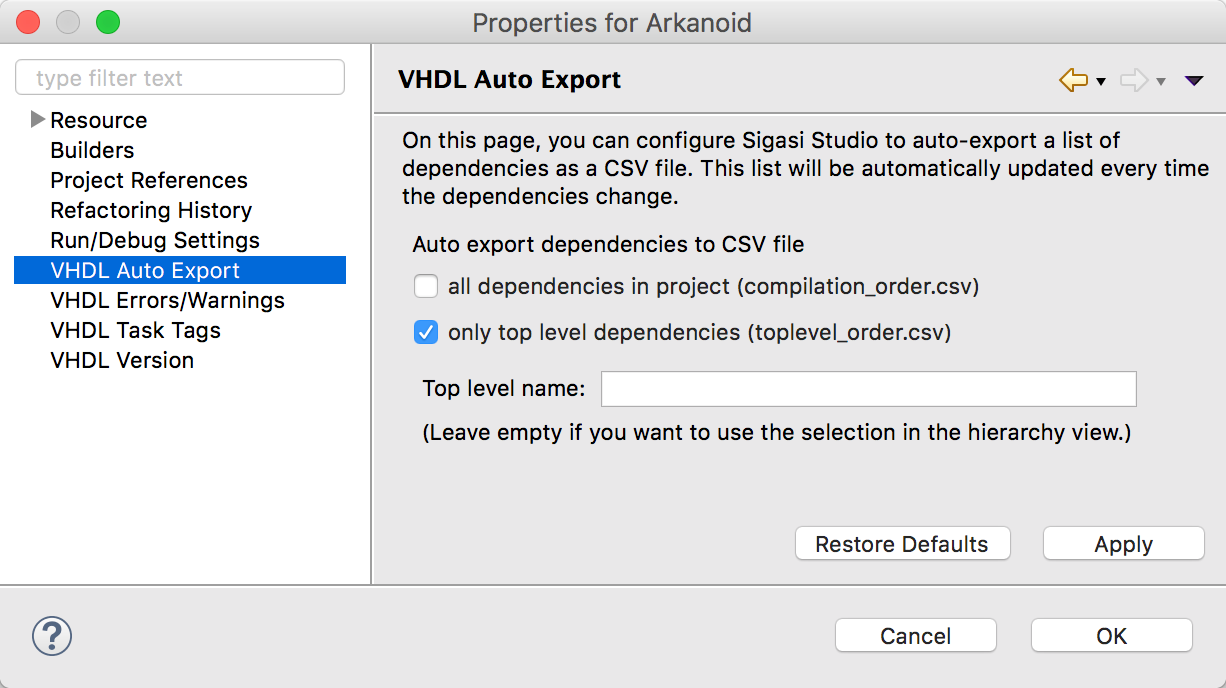
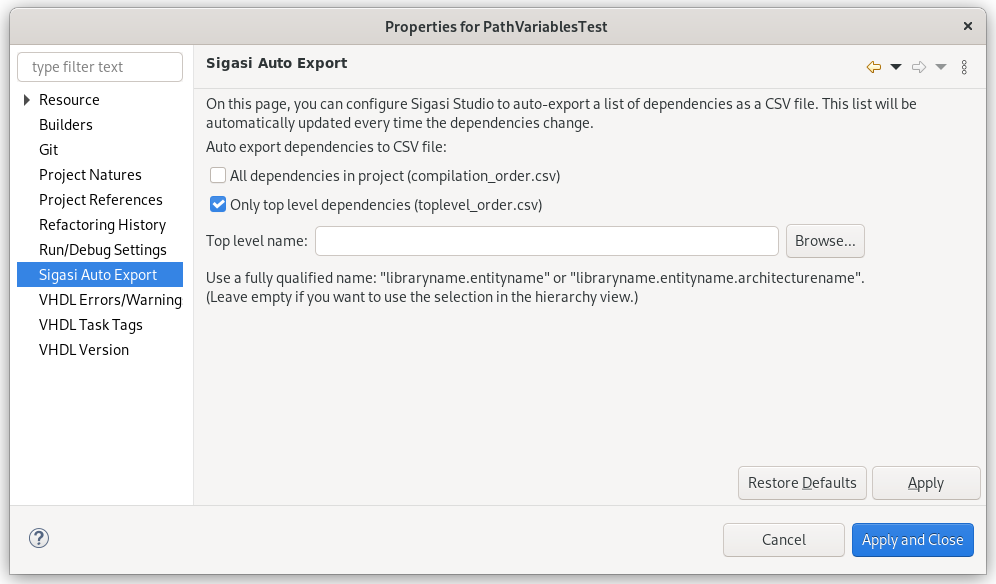
Releasenotes for 4.15.20220201 preview

diff --git a/content/tech/preview.md b/content/tech/preview.md
@@ -2,7 +2,7 @@
 title: Sigasi Studio Preview (4.15)
 layout: page
 pager: true
-date: 2021-12-16
+date: 2022-02-01
 comments: true
 ---
 
@@ -16,7 +16,73 @@ Although these preview releases are less rigorously tested than the official rel
 
 # Current preview release
 
-No documented changes since the {{< page "releasenotes/sigasi-4.14.md" >}} release.
+# Updates
+
+* The minimum VUnit version required by Sigasi is now `4.5.0`
+* Sigasi now uses Chromium 80.0.15 for rendering graphics and the [Documentation View]({{< ref "manual/views.md#documentation-view" >}}). This improves the performance and stability of these views
+* Eclipse has been updated to 2021-12
+* Chromium - which is used for documentation generation and the graphical views - has been updated to version 80
+* MouseFeed - an optional plugin shipped with Sigasi - has been replaced by the Eclipse option `General > Keys > Through mouse click`
+
+# New and Noteworthy Changes
+
+* The [Quick Outline]({{< ref "manual/views.md#quick-outline-view" >}}) initial expansion has been adjusted such that modules, entities, and classes are immediately expanded. This gives a better overview of the design at a first glance
+* Improved the consistency of our ordering, grouping, casing, and punctuation in the preferences and `New...` dialogs
+* The performance of instantiation autocompletes has been _greatly_ improved
+* Autocompleting design unit (`entity`, `component`, or Verilog `module`) instantiations is now supported for design units denoted by an extended identifier (e.g. `\Cool Name$\` in VHDL, or `\$amazing^name ` in Verilog)
+* Added the ability to run performance logging to help us analyze potential user issues
+* The colors used in the `Set top level` dialog have been made consistent with our other views
+* The [Sigasi Auto Export]({{< ref "manual/tools.md#auto-export" >}}) now validates that the given `Top level name` exists, and gives you an option to browse through valid ones  
+{{< figure src="/img/releasenotes/4.15/AutoExportCsv.png" title="Sigasi auto export improvements">}}  
+* Improved responsiveness when enabling or disabling [Talkback]({{< ref "manual/talkback.md" >}})
+* The `Verilog Version` and `Verilog Errors/Warnings` pages are now hidden in the VHDL file properties. The same was done for the corresponding VHDL pages in Verilog file properties.
+* The [Hierarchy]({{< ref "manual/views.md#hierarchy-view" >}}), [VUnit]({{< ref "manual/views.md#vunit-view" >}}), [Net Search]({{< ref "manual/views.md#net-search-view" >}}) and [Libraries View]({{< ref "manual/views.md#libraries-view" >}}) now honor the single-click navigation preference (`Preferences > General > Open mode`)
+* **[VHDL]** Added a red squiggly line under subprograms in packages when the corresponding subprogram body in the package body is missing
+* **[VHDL]** Added new constructs to the outline:
+    * labels for concurrent statements
+    * package and type declarations in entity generic lists
+* **[VHDL]** Improved handling of strings at invalid places
+* **[VHDL]** Autocompleting a function call no longer adds the semicolon at the end. The semicolon at the end is rarely useful
+* **[VHDL]** Added formatting for generic package and function declarations
+* **[VHDL]** Improved auto indentation of many constructs (type declarations, functions, packages,...)
+* **[VHDL]** The link to [Sigasi's website](https://sigasi.com) in the exported markers document now uses HTTPS instead of HTTP
+* **[VHDL]** The [index out of range validation]({{< ref "manual/rules/vhdl_array_range.md" >}}) now supports the `open` expression in `subtype` declarations
+* **[VHDL]** Added support for VHDL 2019 protected type instantiations
+{{< figure src="/img/releasenotes/4.15/ProtectedTypeInstantiation.png" title="Example of a VHDL 2019 protected type instantiation">}}  
+* **[Verilog]** Added variable declarations to the outline, using a qualified path to describe their type
+* **[Verilog]** Added predefined Verilog macros (matching `` `SV_COV_*``) for use with the `$coverage_control` system function
+* **[Verilog]** The selection color in the [Preprocessor View]({{< ref "manual/views.md#preprocessor-view" >}}) now adapts to the theme being used
+* **[Verilog]** Verilog `module` instantiations are now shown with more detail in the hierarchy view  
+{{< figure src="/img/releasenotes/4.15/HierarchyViewVerilogInstantiation.png" title="Verilog module instantiations in the Hierarchy View">}}  
+* **[Verilog]** Non-active preprocessor code is now deemphasized instead of emphasized in the dark theme
+* **[Graphics]** Exported graphics now default to `.png` when no extension was explicitly mentioned
+
+# Bug fixes
+
+* Made unintentionally transparent icons on Windows non-transparent again
+* Fixed missing editor support when a file from a closed project is externally opened and the project is opened again
+* Fixed rare behavior that caused the outline and the coloring to be applied only after the first edit in a file
+* Fixed rare case where editing operations cleared the [Find References]({{< ref "manual/editor.md#find-references" >}}) view unexpectedly
+* Fixed selection linking between the libraries view and the editor
+* The hover window now sizes more accurately according to its content
+* Prevent excessive vmap calls to external compiler when using the same pre-compiled library in multiple open projects
+* **[VHDL]** Made sure that the `Add missing association` Quick Fix can always be applied
+* **[VHDL]** Fixed rare cases in which the formatter would not apply any formatting
+* **[VHDL]** Fixed name conflicts between components and entities, and components and libraries
+* **[VHDL]** Fixed [Smart Indentation]({{< ref "manual/editor.md#smart-indentation" >}}) after pressing enter at the end of a type declaration
+* **[Verilog]** Made sure to only propose [Quick Fixes]({{< ref "manual/linting.md#quick-fixes" >}}) for valid paths when the argument of an `` `include`` can not be found in the current include path
+* **[Verilog]** When folding a module instantiation, Sigasi now correctly shows the first line of the instantiation
+* **[Verilog]** Fixed labels when using increment, decrement or streaming operators
+* **[Verilog]** Fixed broken hierarchy view for incomplete loop generate statements
+* **[Verilog]** Fixed highlighting of ports in user-defined primitives
+* **[Verilog]** Fixed linking of
+    * the end identifier in blocks
+    * incomplete bind directives
+* **[Verilog]** Fixed the values for the `` `__FILE__`` and `` `__LINE__`` macros
+* **[Verilog]** Fixed resolution of nested include paths
+* **[Verilog]** Fixed focus of the bottom pane in the [Class Hierarchy View]({{< ref "manual/views.md#class-hierarchy-view" >}})
+* **[VUnit]** Added missing text in `Browse` button in project importer
+* A lot of other issues we could fix thanks to your talkback reports
 
 # Update or install?
 

diff --git a/content/manual/tools.md b/content/manual/tools.md
@@ -364,7 +364,7 @@ You can use your own simple scripts to manipulate such list and run any EDA tool
 
 To export a comma separated value (CSV) list of files in your project, right-click your project and select **Export...**.
 In the **Sigasi** category, select **CSV File**. Then select the project you want to export.
-As a result, you get a file named `compilation_order.csv`, which lists the VHDL files in your project in a valid compile order.
+As a result, you get a file named `compilation_order.csv`, which lists the HDL files in your project in a valid compile order.
 
 Example (for the tutorial project):
 
@@ -380,11 +380,11 @@ This file will use relative paths, except when the file is on a different drive 
 
 You can also configure Sigasi Studio to **auto-export** this CSV file, every time the dependencies change.
 
-Right click on the project you want to auto-export in the Project Explorer, and select **Properties** and **Sigasi auto export**.
+Right click on the project you want to auto-export in the Project Explorer, and select **Properties** and **Sigasi Auto Export**.
 
 {{< figure src="/img/manual/auto_export_property_page.png" alt="Auto export CSV file with dependencies" >}}
 
 If you do not set a fixed top level name (i.e. empty *top level name* in the property page), Sigasi Studio will use the current top level in the [Hierarchy View](/manual/views#hierarchy-view) as input.
 Note that this only works if the top level belongs to the selected project.
 
-This information is stored in `.settings/com.sigasi.hdt.vhdl.ui.prefs` in your project.
+This information is stored in `.settings/com.sigasi.hdt.shared.ui.prefs` in your project.

diff --git a/content/manual/editor.md b/content/manual/editor.md
@@ -437,7 +437,7 @@ See also:
 
 ## VHDL code formatting
 
-Press **Ctrl+Shift+f** to format your current VHDL file.
+Press **Ctrl+Shift+F** to format your current VHDL file.
 
 This includes:
 
